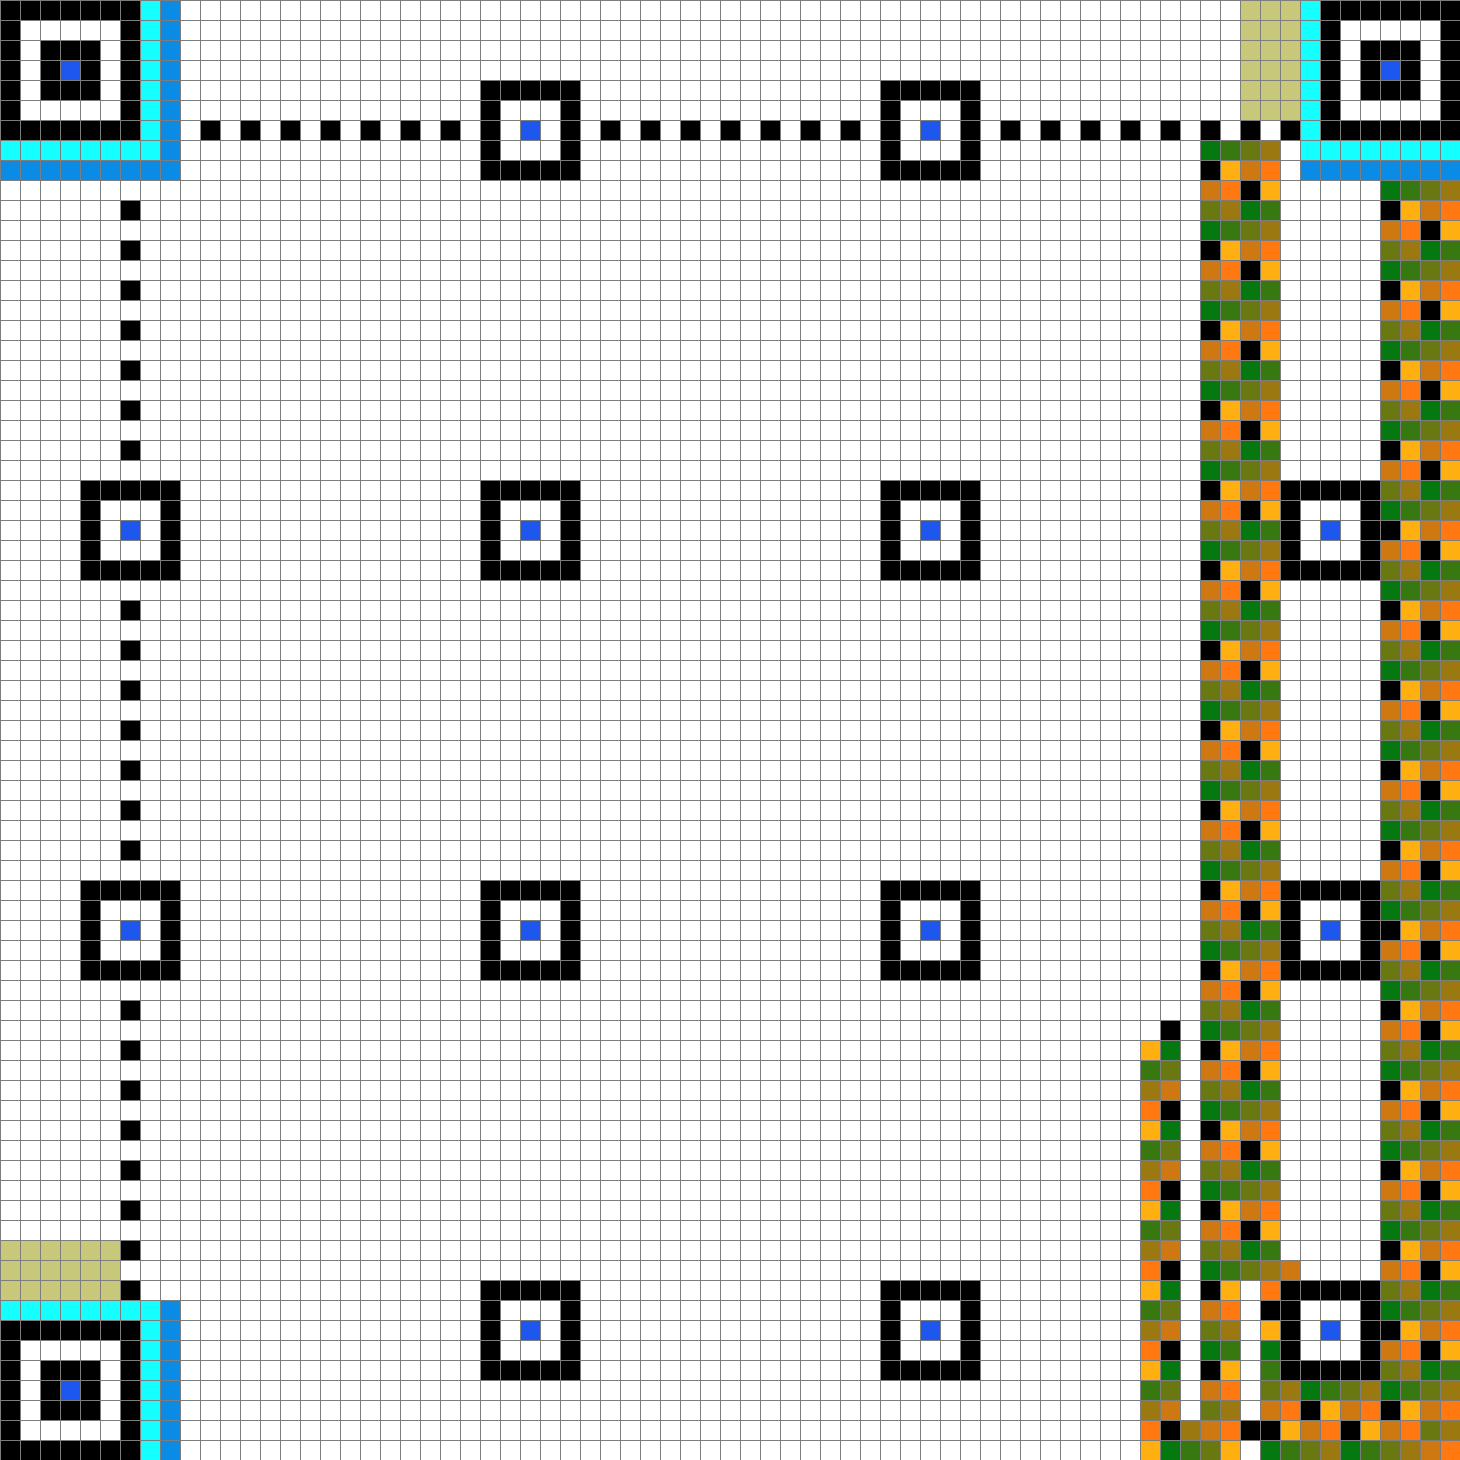
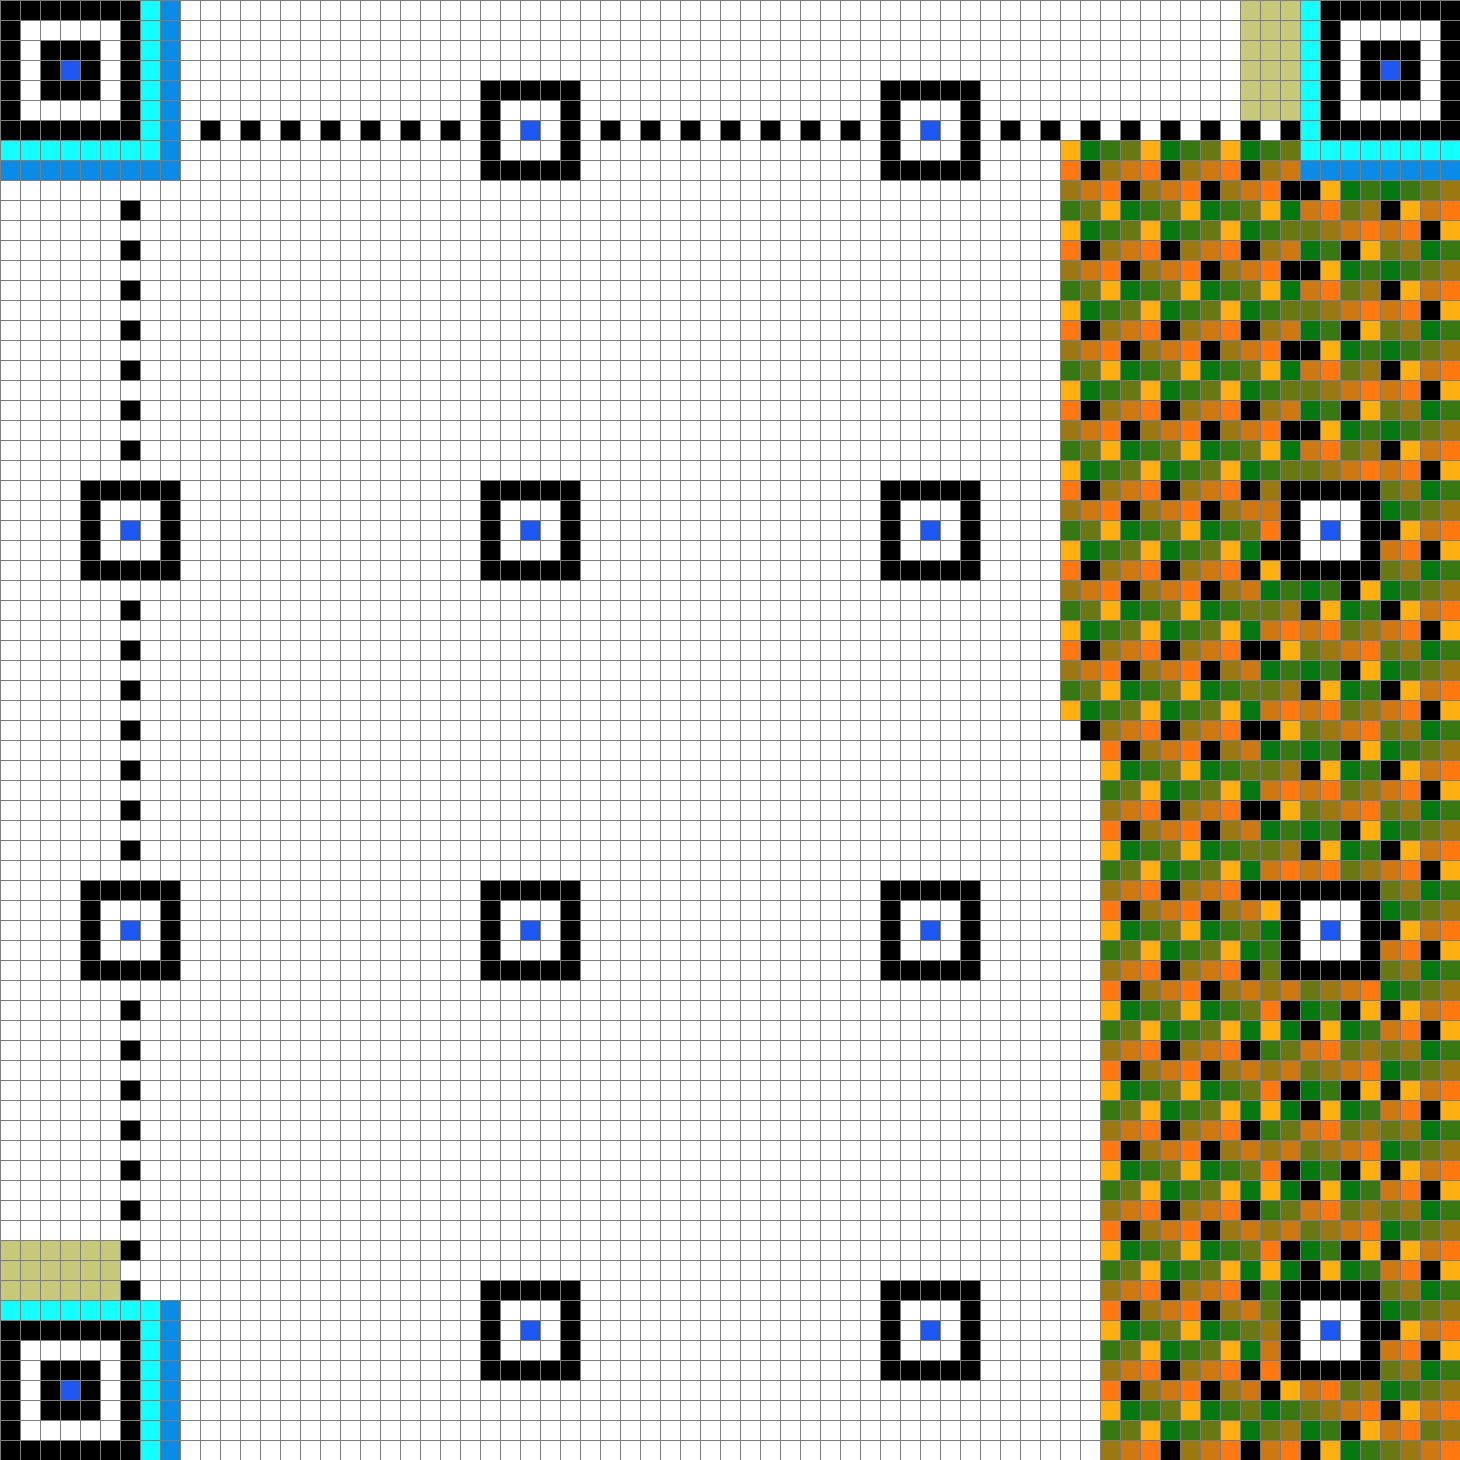
finicky timer patterns messing everything up

Changed region(s): [[0.7089, 0.0925, 0.9555, 1.0]]

diff --git a/src/qr_encoder/area.rs b/src/qr_encoder/area.rs
@@ -13,10 +13,10 @@ const UPPER_RIGHT: u8 = 1;
 const LOWER_RIGHT: u8 = 2;
 const LOWER_LEFT: u8 = 4;
 const UPPER_LEFT: u8 = 8;
-const TOP: u8 = UPPER_RIGHT ^ UPPER_LEFT;
-const BOTTOM: u8 = LOWER_RIGHT ^ UPPER_LEFT;
-const LEFT: u8 = LOWER_LEFT ^ UPPER_LEFT;
-const RIGHT: u8 = LOWER_RIGHT ^ UPPER_RIGHT;
+const TOP: u8 = UPPER_RIGHT | UPPER_LEFT;
+const BOTTOM: u8 = LOWER_RIGHT | LOWER_LEFT;
+const LEFT: u8 = LOWER_LEFT | UPPER_LEFT;
+const RIGHT: u8 = LOWER_RIGHT | UPPER_RIGHT;
 
 #[derive(Debug)]
 enum Direction {
@@ -26,7 +26,8 @@ enum Direction {
     UpLeft,
     Down,
     DownLeft,
-    DownRight
+    DownRight,
+    JumpLeft
 }
 
 impl Area {
@@ -53,11 +54,13 @@ impl Area {
         }
     }
 
-    fn guess_direction(&self, prev_area: Area) -> Direction {
+    fn guess_direction(&self, prev_area: Area, size: usize) -> Direction {
         if self.free & UPPER_RIGHT == UPPER_RIGHT && prev_area.free & RIGHT == 0 {
             Direction::UpRight
         } else if self.free & LOWER_RIGHT == LOWER_RIGHT && prev_area.free & RIGHT == 0 {
             Direction::DownRight
+        } else if self.timing == TOP && prev_area.prev_index != self.current_index + size {
+            Direction::JumpLeft
         } else {
             Direction::Left
         }
@@ -68,7 +71,7 @@ impl Area {
     // }
 
     pub fn near_alignment(&self, size: usize, prev_area: Area) -> usize {
-        match self.guess_direction(prev_area) {
+        match self.guess_direction(prev_area, size) {
             Direction::UpRight => {
                 if self.algn == 0b1001 {
                     self.current_index - (size * 6) + 1
@@ -108,26 +111,37 @@ impl Area {
             },
 
             Direction::Left => {
-                // if self.algn == 0b1100 {
-                //     self.current_index + size + 1
-                // } else if self.free == 0b1100 {
-                //     self.current_index - size
-                // } else {
-                //     self.current_index - 1
-                // }
+                // if the previous position was to the right, and there's a single
+                if self.current_index % size == self.prev_index % size {
+                    if self.current_index > self.prev_index {
+                        self.current_index + size
+                    } else {
+                        self.current_index - size
+                    }
+                } else if self.current_index + 1 == self.prev_index && self.algn == TOP {
+                    self.prev_index - (size * 6)
+                } else if self.current_index + 1 == self.prev_index && self.algn == BOTTOM {
+                    self.prev_index + (size * 6)
+                } else if self.current_index + 1 == self.prev_index && self.algn == UPPER_RIGHT {
+                    self.current_index - size
+                } else {
+                    self.current_index - 1
+                }
             },
             _ => self.current_index - 1
         }
     }
 
-    pub fn print_binary(&self, size: usize) {
-        // println!("Direction: {:?}", self.guess_direction());
+    pub fn print_binary(&self, size: usize, prev_area: Area) {
+        println!("Direction: {:?}", self.guess_direction(prev_area, size));
         println!("Point: {}, {}", self.current_index / size, self.current_index % size);
         println!("Alignment {:b}", self.algn);
         println!("Offsides  {:b}", self.off);
         println!("Free      {:b}", self.free);
         println!("Message   {:b}", self.msg);
         println!("Timing    {:b}", self.timing);
+        println!("Previous  {}", self.prev_index);
+        println!("Current   {}", self.current_index);
     }
 
     pub fn same_row(&self) -> bool {
@@ -139,7 +153,7 @@ impl Area {
     }
 
     pub fn near_edge(&self, size: usize, prev_area: Area) -> usize {
-        match self.guess_direction(prev_area) {
+        match self.guess_direction(prev_area, size) {
             Direction::DownRight => {
                 if self.off == 0b0110 {
                     self.current_index - 1
@@ -165,6 +179,10 @@ impl Area {
             },
 
             Direction::Left => {
+                if prev_area.timing == TOP || self.current_index % size == self.prev_index % size && self.current_index != self.prev_index {
+                    return self.current_index + size
+                }
+
                 if self.free & 1 == 1 {
                     self.current_index - size + 1
                 } else if self.free == 0b1110 {
@@ -178,13 +196,17 @@ impl Area {
     }
 
     fn near_timing(&self, size: usize, prev_area: Area) -> usize {
-        match self.guess_direction(prev_area) {
+        match self.guess_direction(prev_area, size) {
             Direction::DownRight => {
                 if self.off == 0b0110 {
                     self.current_index - 1
                 } else {
                     self.current_index + size + 1
                 }
+            },
+
+            Direction::JumpLeft => {
+                
             },
 
             Direction::UpRight => {
@@ -200,13 +222,43 @@ impl Area {
             },
 
             Direction::Left => {
-                if self.free & 1 == 1 {
+                if self.timing == BOTTOM && prev_area.free == UPPER_LEFT {
                     self.current_index - size + 1
-                } else if self.free == 0b1110 {
-                    self.current_index + size + 1
+                } else if self.timing == TOP {
+                    self.current_index - 1
                 } else {
                     self.current_index - 1
                 }
+                // if self.timing == BOTTOM {
+
+                // } else if {
+
+                // }
+                // if prev_area.timing == TOP && self.timing == TOP {
+                //     if prev_area.prev_index == self.current_index + size {
+                //         self.current_index - (size * 2) + 1
+                //     } else {
+                //         self.current_index % size - 1
+                //     }
+                // } else if self.timing == BOTTOM {
+                //     if self.msg == TOP {
+                //         // implies a downward motion
+                //         self.current_index - 1
+                //     } else if self.free == UPPER_LEFT {
+                //         // implies an upward motion if it's not downward?
+                //     } else {
+                //         self.current_index + (size * 2)
+                //     }
+                // } else {
+                //     self.current_index - 1
+                // }
+                // // if self.free & 1 == 1 {
+                // //     self.current_index - size + 1
+                // // } else if self.free == 0b1110 {
+                // //     self.current_index + size + 1
+                // // } else {
+                // //     self.current_index - 1
+                // // }
             },
 
             Direction::UpLeft => {
@@ -218,7 +270,7 @@ impl Area {
     }
 
     pub fn adjust_position(&self, size: usize, prev_area: Area) -> usize {
-        self.print_binary(size);
+        self.print_binary(size, prev_area);
 
         if self.timing > 0 {
             self.near_timing(size, prev_area)

diff --git a/src/main.rs b/src/main.rs
@@ -44,7 +44,7 @@ fn main() {
     };
     qr.setup();
 
-    let sample = "\'It Was the Best of times, it was the Blurst of times?? You stupid monke".to_string();
+    let sample = "\'It Was the Best of times, it was the Blurst of times?? You stupid monkey! dskjhfslkdjfhsldkjfsadasdsdassdsdsdsdsdsdsdsdsdsdasdsdfsdfsdfsdfsdfsa".to_string();
     // let sample = "abcdefhijklmnopqrstuvwxyzabcdefghabcdefhijabcdefhijabcdefhij".to_string();
     let area = Area {
         free: 0,
@@ -57,6 +57,7 @@ fn main() {
     };
     let start_point = (qr.config.size * qr.config.size) - 1;
     let mut position: (usize, usize, Area) = qr.encode_chunk(10, 4, (start_point, start_point, area));
+
 
     for s in sample.into_bytes().into_iter() {
         position = qr.encode_chunk(s, 8, position);
